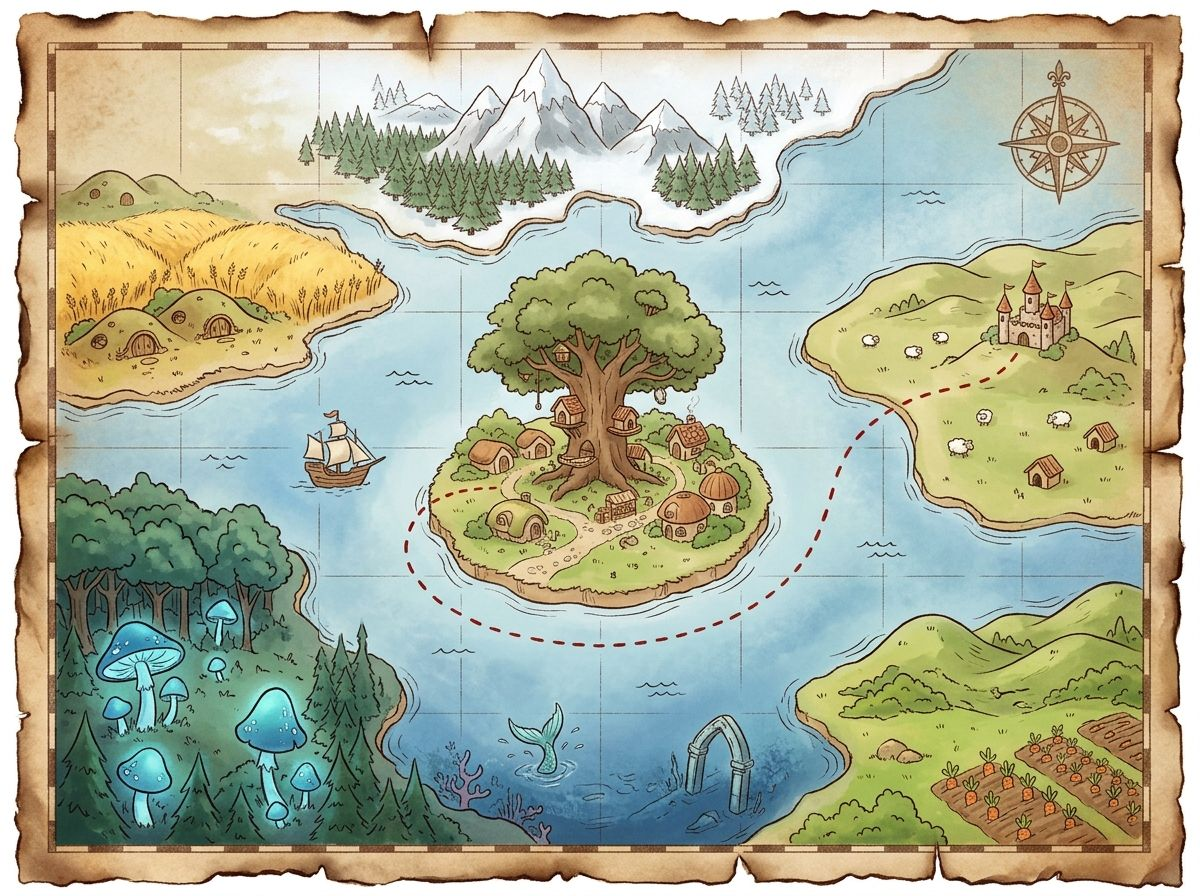
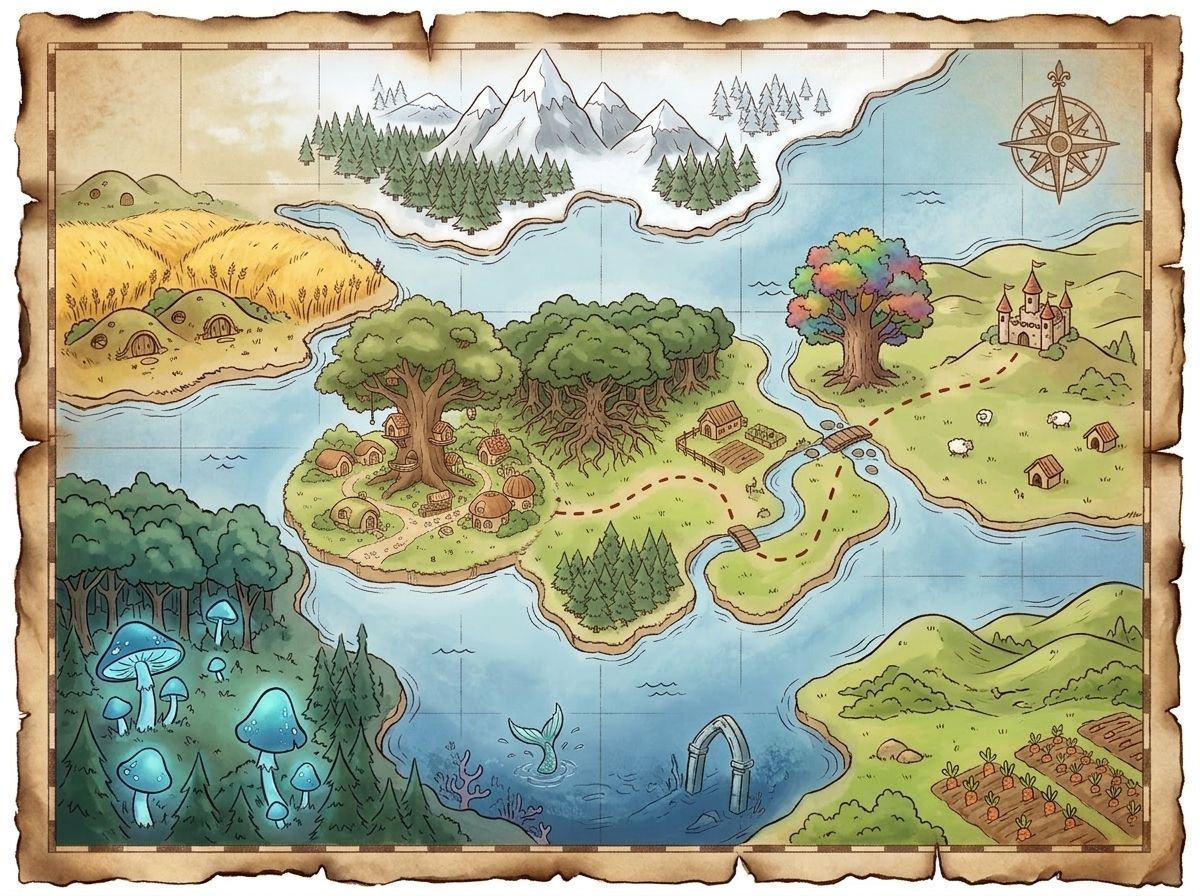
地圖改成陸路：月瞳國→森林、農地、過河→國界的樹→嘯原；arcs.json 加 road（第 14 話起亮）
Claude-Session: https://claude.ai/code/session_01ENYvsJZXv4aZoT5C3YsXE7

diff --git a/index.html b/index.html
@@ -190,37 +190,43 @@ footer{font-size:13px;color:var(--soft);display:grid;gap:4px;border-top:2.5px da
 <defs><filter id="soft" x="-60%" y="-60%" width="220%" height="220%"><feGaussianBlur stdDeviation="28"/></filter>
 <filter id="smoke"><feTurbulence type="fractalNoise" baseFrequency=".012" numOctaves="4" seed="5"/><feColorMatrix values="0 0 0 0 .07  0 0 0 0 .05  0 0 0 0 .04  0 0 0 -.9 1.25"/></filter>
 <mask id="fogmask"><rect width="1200" height="896" fill="#fff"/>
-<g data-country="moonpupil"><ellipse class="hole" cx="600" cy="444" rx="185" ry="165" fill="#000" filter="url(#soft)"/></g>
-<g data-country="xiaoyuan"><ellipse class="hole" cx="990" cy="400" rx="200" ry="150" fill="#000" filter="url(#soft)"/></g>
+<g data-country="moonpupil"><ellipse class="hole" cx="414" cy="440" rx="165" ry="150" fill="#000" filter="url(#soft)"/></g>
+<g data-country="road"><ellipse class="hole" cx="740" cy="455" rx="165" ry="155" fill="#000" filter="url(#soft)"/></g>
+<g data-country="xiaoyuan"><ellipse class="hole" cx="975" cy="380" rx="200" ry="140" fill="#000" filter="url(#soft)"/></g>
 </mask></defs>
 <image href="assets/home/map.jpg" width="1200" height="896"/>
 <g mask="url(#fogmask)"><rect width="1200" height="896" fill="#120c07" opacity=".9"/><rect width="1200" height="896" filter="url(#smoke)" opacity=".7"/></g>
 <g data-country="moonpupil">
-<text class="unk" x="600" y="462" text-anchor="middle">？</text>
-<text class="name" x="600" y="600" text-anchor="middle">月瞳國</text>
-<g class="you" transform="translate(670 404)"><path d="M-14 -14 L14 14 M14 -14 L-14 14"/></g>
+<text class="unk" x="414" y="458" text-anchor="middle">？</text>
+<text class="name" x="414" y="600" text-anchor="middle">月瞳國</text>
+<g class="you" transform="translate(484 400)"><path d="M-14 -14 L14 14 M14 -14 L-14 14"/></g>
+</g>
+<g data-country="road">
+
+<g class="you" transform="translate(810 415)"><path d="M-14 -14 L14 14 M14 -14 L-14 14"/></g>
 </g>
 <g data-country="xiaoyuan">
-<text class="unk" x="990" y="418" text-anchor="middle">？</text>
-<text class="name" x="990" y="520" text-anchor="middle">嘯原</text>
-<g class="you" transform="translate(1060 360)"><path d="M-14 -14 L14 14 M14 -14 L-14 14"/></g>
+<text class="unk" x="975" y="398" text-anchor="middle">？</text>
+<text class="name" x="1000" y="500" text-anchor="middle">嘯原</text>
+<g class="you" transform="translate(1045 340)"><path d="M-14 -14 L14 14 M14 -14 L-14 14"/></g>
 </g>
 <g>
-<text class="unk" x="565" y="158" text-anchor="middle">？</text>
+<text class="unk" x="565" y="148" text-anchor="middle">？</text>
 </g>
 <g>
-<text class="unk" x="210" y="308" text-anchor="middle">？</text>
+<text class="unk" x="215" y="303" text-anchor="middle">？</text>
 </g>
 <g>
-<text class="unk" x="200" y="688" text-anchor="middle">？</text>
+<text class="unk" x="190" y="708" text-anchor="middle">？</text>
 </g>
 <g>
-<text class="unk" x="600" y="778" text-anchor="middle">？</text>
+<text class="unk" x="600" y="808" text-anchor="middle">？</text>
 </g>
 <g>
-<text class="unk" x="985" y="738" text-anchor="middle">？</text>
+<text class="unk" x="1000" y="758" text-anchor="middle">？</text>
 </g>
 </svg>
+
 
 
 

diff --git a/tools/make_map.py b/tools/make_map.py
@@ -1,11 +1,12 @@
 """首頁世界地圖（10/30 改版）：AI 畫的藏寶圖 assets/home/map.jpg 當底，上面蓋一層黑霧；
 到過的國家在霧上挖洞亮出來（js/home.js 幫 [data-country] 加 reached／current，霧的洞和名牌都靠這兩個 class）。
 新國家：在 C 加一行（id 要跟 data/arcs.json 一樣），座標是 map.jpg（1200×896）上的位置。"""
-C = [  # id, 中心 x, y, 半徑 rx, ry, 名字, 名牌位置
-    ('moonpupil', 600, 444, 185, 165, '月瞳國', (600, 600)),
-    ('xiaoyuan', 990, 400, 200, 150, '嘯原', (990, 520)),
-    ('', 565, 140, 240, 105, '', None), ('', 210, 290, 210, 115, '', None), ('', 200, 670, 230, 210, '', None),
-    ('', 600, 760, 170, 110, '', None), ('', 985, 720, 230, 165, '', None)]
+C = [  # id, 中心 x, y, 半徑 rx, ry, 名字（空的＝不放名牌）, 名牌位置；10/30 她說貓國走到狗國是陸路 → 地圖換成陸地相連的 m4
+    ('moonpupil', 414, 440, 165, 150, '月瞳國', (414, 600)),
+    ('road', 740, 455, 165, 155, '', None),          # 第 14～17 話：森林、農地、過河
+    ('xiaoyuan', 975, 380, 200, 140, '嘯原', (1000, 500)),
+    ('', 565, 130, 240, 100, '', None), ('', 215, 285, 200, 110, '', None), ('', 190, 690, 210, 200, '', None),
+    ('', 600, 790, 170, 90, '', None), ('', 1000, 740, 220, 150, '', None)]
 o = ['<svg viewBox="0 0 1200 896" role="img" aria-label="世界地圖：只有已經去過的國家會亮起來">',
      '<defs><filter id="soft" x="-60%" y="-60%" width="220%" height="220%"><feGaussianBlur stdDeviation="28"/></filter>',
      '<filter id="smoke"><feTurbulence type="fractalNoise" baseFrequency=".012" numOctaves="4" seed="5"/><feColorMatrix values="0 0 0 0 .07  0 0 0 0 .05  0 0 0 0 .04  0 0 0 -.9 1.25"/></filter>',
@@ -16,9 +17,9 @@ o += ['</mask></defs>', '<image href="assets/home/map.jpg" width="1200" height="
       '<g mask="url(#fogmask)"><rect width="1200" height="896" fill="#120c07" opacity=".9"/><rect width="1200" height="896" filter="url(#smoke)" opacity=".7"/></g>']
 for cid, x, y, rx, ry, nm, lab in C:
     g = f' data-country="{cid}"' if cid else ''
-    s = [f'<g{g}>', f'<text class="unk" x="{x}" y="{y + 18}" text-anchor="middle">？</text>']
+    s = [f'<g{g}>', f'<text class="unk" x="{x}" y="{y + 18}" text-anchor="middle">？</text>' if nm or not cid else '']
     if cid:
-        s.append(f'<text class="name" x="{lab[0]}" y="{lab[1]}" text-anchor="middle">{nm}</text>')
+        if nm: s.append(f'<text class="name" x="{lab[0]}" y="{lab[1]}" text-anchor="middle">{nm}</text>')
         s.append(f'<g class="you" transform="translate({x + 70} {y - 40})"><path d="M-14 -14 L14 14 M14 -14 L-14 14"/></g>')
     s.append('</g>'); o += s
 o.append('</svg>')
